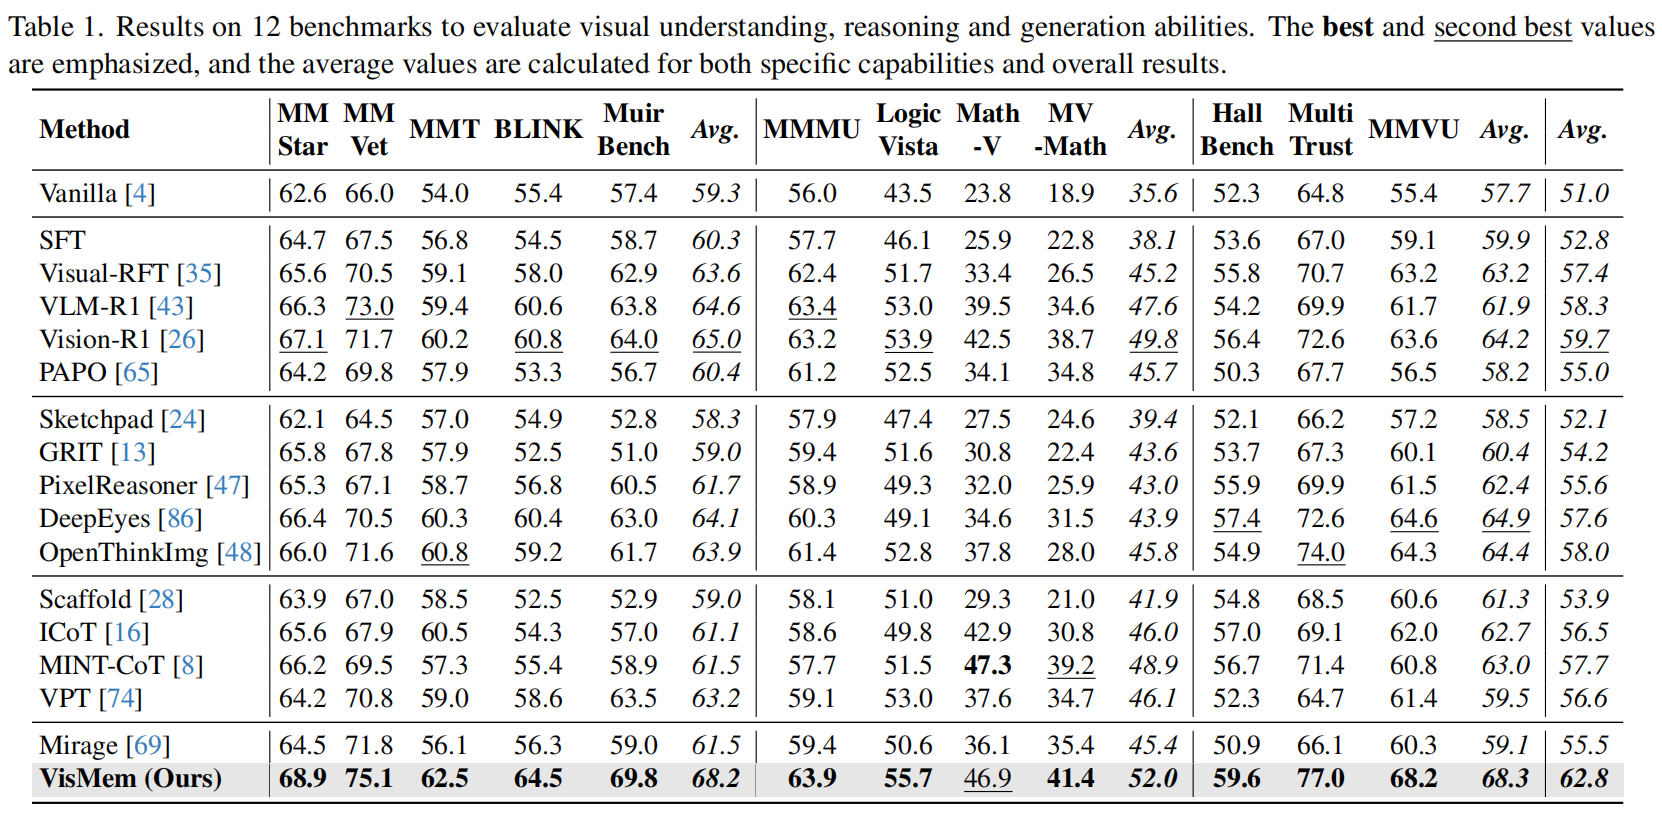
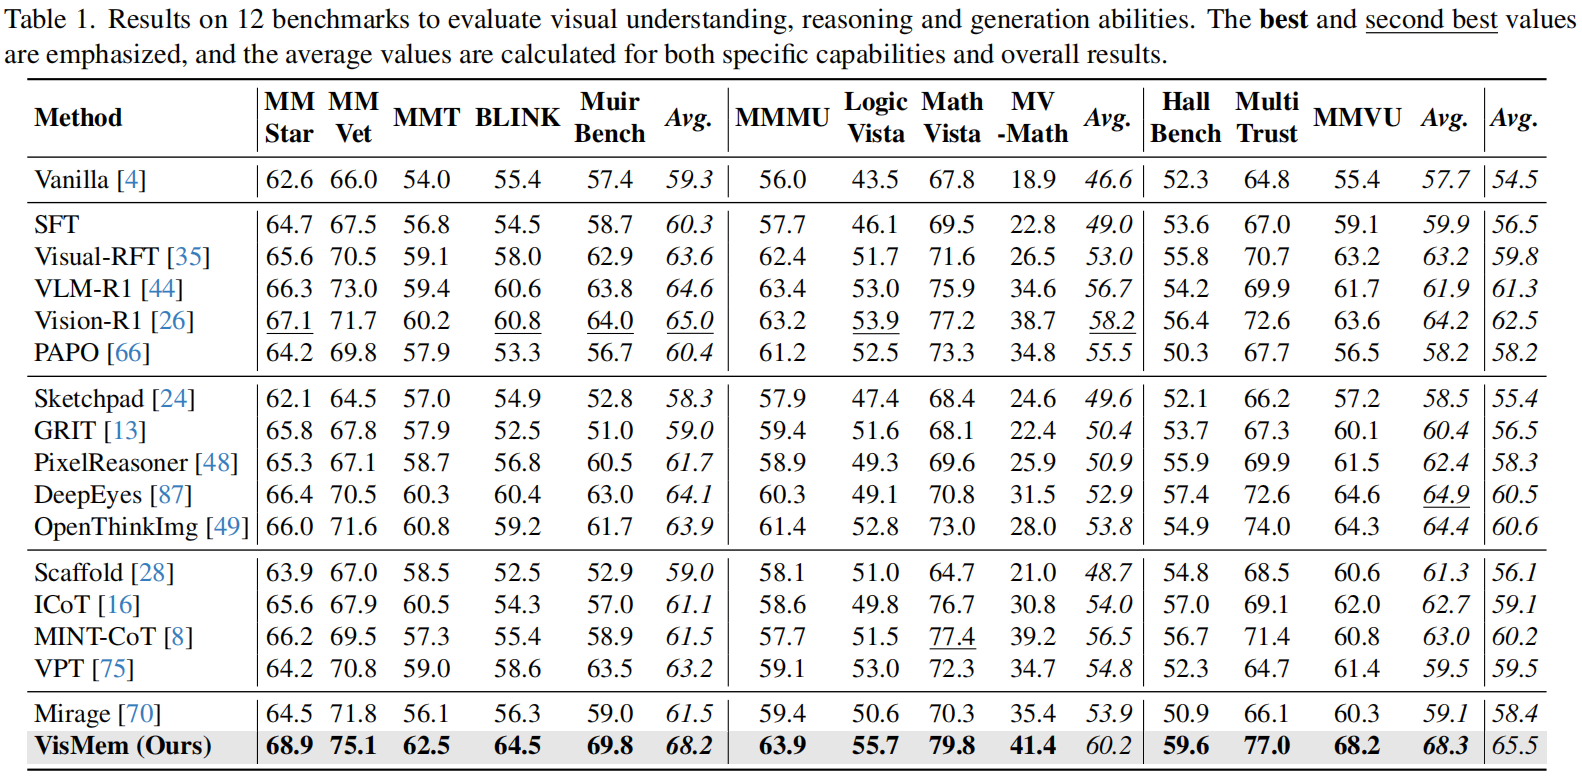
update to do list

Changed region(s): [[0.0, 0.0, 1.0, 1.0]]

diff --git a/README.md b/README.md
@@ -1,7 +1,7 @@
 # VisMem: Latent Vision Memory Unlocks Potential of Vision-Language Models
 
 ## To Do List
-[2026/02/04] We are currently replacing the results of Math-Vision with MathVista.
+~~[2026/02/04] We replace the results of Math-Vision with MathVista [Done].~~
 
 
 ## 🌟🌟🌟 Method
